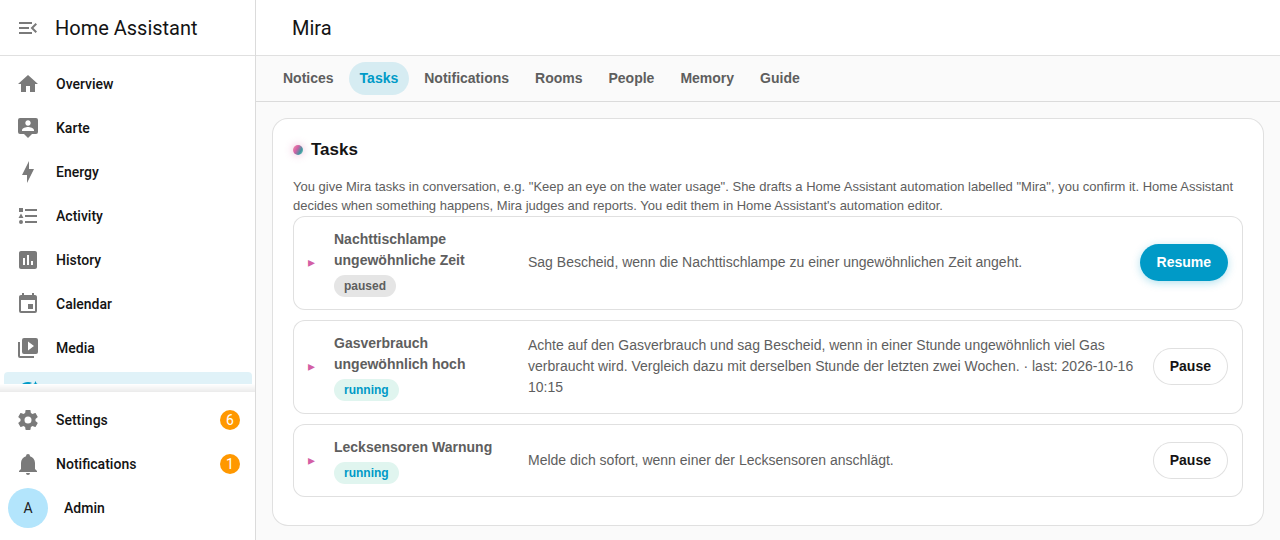
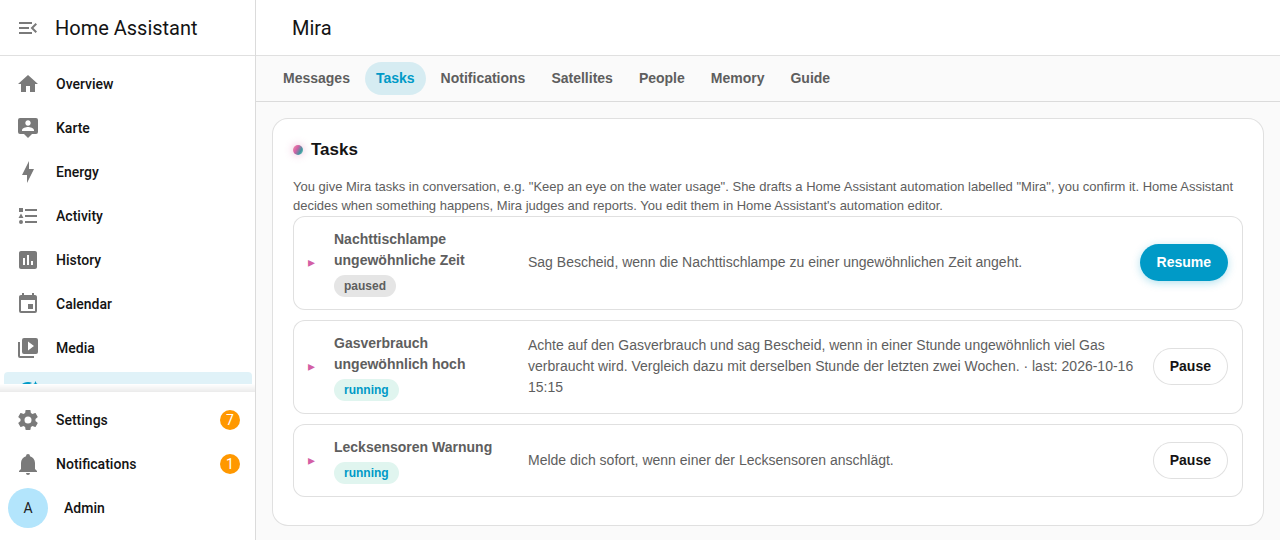
Doku auf Stand 0.6.9: Satelliten statt Räume, Kanäle der Person statt Telegram/Push, Anzeige statt Lampe, Ablauf der Zustellung ohne Raum-Modus, Telegram-Gespräch ohne Zeitgrenze; Screenshots neu (Nachrichten, Aufgaben, Benachrichtigung, Gerät, Integration, Personen-Einstellungen)

Changed region(s): [[0.2188, 0.1185, 0.6562, 0.1778]]

diff --git a/docs/guide/de.md b/docs/guide/de.md
@@ -85,7 +85,7 @@ Pro Satellit stellst du ein:
 
 Mehrere Nachrichten fasst Mira zu einer Ansage zusammen, das Wichtigste zuerst und mit Uhrzeit, wo sie hilft („heute Nacht um drei …“).
 
-**Nebenbei**: Wenn du ohnehin mit dem Satelliten sprichst, hängt Mira Wartendes an ihre Antwort an – „Das Licht ist an. Übrigens: Morgen wird der Wertstoff abgeholt.“ Danach gilt die Nachricht als gehört und die Lampe geht aus. Fragst du nach („Was genau?“), bekommst du die Details.
+**Nebenbei**: Wenn du ohnehin mit dem Satelliten sprichst, hängt Mira Wartendes an ihre Antwort an – „Das Licht ist an. Übrigens: Morgen wird der Wertstoff abgeholt.“ Danach gilt die Nachricht als gehört, und die Anzeige geht aus. Fragst du nach („Was genau?“), bekommst du die Details.
 
 **Wichtigkeit**:
 
@@ -101,7 +101,7 @@ Wenn Mira von sich aus spricht, leuchtet der LED-Ring des Raums ruhig, solange s
 
 **Ruhemodus**: Der Schalter „Ruhemodus“ in Home Assistant stellt alle Ansagen ab, bis du ihn wieder ausschaltest.
 
-**Vertrauliches und Persönliches**: Nachrichten können für eine Person bestimmt oder vertraulich sein. Vertrauliches liest Mira nur vor, wenn die Einstellung es erlaubt (z. B. nur wenn die Person allein zu Hause ist); sonst kommt es privat per Telegram oder als Push-Nachricht aufs Handy.
+**Vertrauliches und Persönliches**: Nachrichten können für eine Person bestimmt oder vertraulich sein. Vertrauliches liest Mira nur vor, wenn die Einstellung es erlaubt (z. B. nur wenn die Person allein zu Hause ist); sonst kommt es privat über die Kanäle der Person (Telegram, Companion-App).
 
 ![Nachrichten: wartende und zugestellte](img/meldungen-de.png)
 
@@ -148,7 +148,7 @@ Ist die Einrichtung mit einem stärkeren Sprachmodell verbunden, gibt Mira aufwe
 - „Stell einen Timer auf 10 Minuten.“ – „In einer halben Stunde erinnerst du mich an die Wäsche.“
 - „Welche Erinnerungen habe ich?“ – „Lösch die Erinnerung an die Wäsche.“
 
-Zur gewählten Zeit sagt Mira die Erinnerung in dem Raum an, in dem du sie gestellt hast – auch in der Ruhezeit, denn die Zeit hast du gewählt. Per Telegram oder in der HA-App gestellte Erinnerungen kommen privat zu dir, per Telegram oder als Push-Nachricht.
+Zur gewählten Zeit sagt Mira die Erinnerung in dem Raum an, in dem du sie gestellt hast – auch in der Ruhezeit, denn die Zeit hast du gewählt. Per Telegram oder in der HA-App gestellte Erinnerungen kommen privat über deine Kanäle.
 
 ## Nachrichten an andere
 
@@ -177,7 +177,7 @@ Mira steht in Home Assistant im Seitenmenü. Du bist dort schon angemeldet, sie 
 - **Nachrichten**: offene und zugestellte Nachrichten ansehen und quittieren.
 - **Aufgaben**: was Mira für dich im Blick behält; an/aus, Probelauf, Protokoll, löschen, „In Home Assistant bearbeiten“.
 - **Benachrichtigung**: Ruhezeit, Pausen, Eskalation, Vertrauliches, dringende Nachrichten.
-- **Räume** und **Personen**: zeigen, was du in der Integration eingerichtet hast (siehe unten).
+- **Satelliten** und **Personen**: alle aus Home Assistant, mit dem, was Mira zusätzlich braucht; als Admin stellst du es hier direkt ein (siehe unten).
 - **Gedächtnis**: das des Hauses und dein eigenes; bearbeiten und vergessen.
 - **Anleitung**: diese Seite.
 
@@ -189,7 +189,7 @@ Bevor Mira etwas löscht, fragt sie nach:
 
 ![Rückfrage vor dem Vergessen eines Fakts](img/dialog-vergessen-de.png)
 
-**Mira für sich allein**: Dieselbe Oberfläche gibt es auch direkt bei Mira unter `http://<mira>:8787/ui`, gedacht für den, der Mira betreibt, und für Installationen ohne die Integration. Sie macht ein paar Dinge anders: Sie kommt in Miras eigenen Farben, fragt beim ersten Aufruf nach dem Zugangs-Token, zeigt die Gedächtnisse aller Personen und lässt dort Räume und Personen bearbeiten, solange die Integration sie nicht verwaltet.
+**Mira für sich allein**: Dieselbe Oberfläche gibt es auch direkt bei Mira unter `http://<mira>:8787/ui`, gedacht für den, der Mira betreibt, und für Installationen ohne die Integration. Sie macht ein paar Dinge anders: Sie kommt in Miras eigenen Farben, fragt beim ersten Aufruf nach dem Zugangs-Token, zeigt die Gedächtnisse aller Personen und lässt dort Satelliten und Personen bearbeiten, solange die Integration sie nicht verwaltet.
 
 ## In Home Assistant
 
@@ -208,6 +208,9 @@ Was Mira darüber hinaus braucht, stellst du am einfachsten im Mira-Panel unter 
 
 - **Einstellungen für einen Satelliten**: Bewegungsmelder (auch mehrere, etwa Flur und Wohnzimmer), beim Hereinkommen ansagen, Anzeige (LED-Ring). Der Raum ist der Bereich des Satelliten.
 - **Einstellungen für eine Person**: **Kanäle** (notify-Ziele, z. B. der Telegram-Chat aus HAs Telegram-Integration und die Companion-App; persönliche Nachrichten gehen an den ersten, der klappt), **Nachrichten annehmen von** (allen, nur Personen, niemandem) und „Allein zu Hause sind die Satelliten ich“.
+
+![Einstellungen für Personen unter „Konfigurieren“: ein Abschnitt pro Person](img/ha-person-de.png)
+
 - **Nachfragen**: Hängst du in Home Assistant das Label **„Mira: nachfragen“** an eine Entität, etwa das Garagentor, schaltet Mira sie nur nach deinem „Ja“, und Aufgaben schalten sie nie. Schlösser und Alarmanlagen sind das ohnehin.
 
 Im Assist-Chat der HA-App und im Seitenmenü erkennt Mira dich an deinem HA-Benutzer, über die Person, mit der Home Assistant ihn verknüpft.
@@ -250,3 +253,4 @@ Neue oder geänderte Server gelten nach einem Neustart von Mira. `mira check` pr
 - Mira erfindet keine Werte: Fehlt ihr etwas, sagt sie es oder fragt nach.
 - Nach einer Websuche führt Mira keine kritischen Aktionen aus, bis du den Befehl noch einmal direkt gibst.
 - Bei Spracherkennungsfehlern hilft es, deutlich und in einem Satz zu sprechen.
+- Ein Gespräch per Telegram läuft weiter, solange du schreibst. Mira sieht davon die letzten Wechsel (etwa 30 bis 50) und alles zum Anliegen, an dem ihr gerade arbeitet; Älteres fällt heraus, was sie sich gemerkt hat, bleibt. `/neu` beginnt von vorn.

diff --git a/docs/guide/en.md b/docs/guide/en.md
@@ -85,7 +85,7 @@ Per satellite you set:
 
 Several messages become one announcement, the most important first and with times where they help ("tonight at three …").
 
-**By the way**: when you talk to the satellite anyway, Mira adds what is waiting to her answer – "The light is on. By the way: the recycling is collected tomorrow." After that the message counts as heard and the light goes off. If you ask ("What exactly?"), you get the details.
+**By the way**: when you talk to the satellite anyway, Mira adds what is waiting to her answer – "The light is on. By the way: the recycling is collected tomorrow." After that the message counts as heard and the indicator goes off. If you ask ("What exactly?"), you get the details.
 
 **Importance**:
 
@@ -101,7 +101,7 @@ When Mira speaks up on her own, the room's LED ring glows steadily while she spe
 
 **Quiet mode**: the "Quiet mode" switch in Home Assistant turns off all announcements until you turn it off again.
 
-**Confidential and personal**: messages can be meant for one person or be confidential. Mira reads confidential messages out only when the setting allows it (e.g. only when that person is alone at home); otherwise they go privately by Telegram or as a push notification to the phone.
+**Confidential and personal**: messages can be meant for one person or be confidential. Mira reads confidential messages out only when the setting allows it (e.g. only when that person is alone at home); otherwise they go privately over that person's channels (Telegram, companion app).
 
 ![Messages: waiting and delivered](img/meldungen-en.png)
 
@@ -148,7 +148,7 @@ If the setup is connected to a stronger language model, Mira hands elaborate que
 - "Set a timer for 10 minutes." – "Remind me about the laundry in half an hour."
 - "Which reminders do I have?" – "Delete the laundry reminder."
 
-At the time you chose, Mira speaks the reminder in the room where you asked for it – even during quiet hours, since you picked the time. Reminders set on Telegram or in the HA app come to you privately, by Telegram or as a push notification.
+At the time you chose, Mira speaks the reminder in the room where you asked for it – even during quiet hours, since you picked the time. Reminders set on Telegram or in the HA app come to you privately over your channels.
 
 ## Messages to others
 
@@ -177,7 +177,7 @@ Mira is in Home Assistant's sidebar. You are signed in there already, she looks 
 - **Messages**: see open and delivered messages and mark them done.
 - **Tasks**: what Mira keeps an eye on for you; on/off, dry run, log, delete, "Edit in Home Assistant".
 - **Notifications**: quiet hours, pauses, escalation, confidential and urgent messages.
-- **Rooms** and **People**: show what you set up in the integration (see below).
+- **Satellites** and **People**: all of them from Home Assistant, with what Mira needs on top; as an admin you set it right here (see below).
 - **Memory**: the house's and your own; edit and forget.
 - **Guide**: this page.
 
@@ -189,7 +189,7 @@ Before Mira deletes something, she asks:
 
 ![Asking before a fact is forgotten](img/dialog-vergessen-en.png)
 
-**Mira on her own**: the same interface is also at Mira herself, at `http://<mira>:8787/ui`, meant for whoever runs Mira and for setups without the integration. It does a few things differently: it comes in Mira's own colors, asks for the access token on the first visit, shows the memories of all persons, and lets you edit rooms and people there as long as the integration does not manage them.
+**Mira on her own**: the same interface is also at Mira herself, at `http://<mira>:8787/ui`, meant for whoever runs Mira and for setups without the integration. It does a few things differently: it comes in Mira's own colors, asks for the access token on the first visit, shows the memories of all persons, and lets you edit satellites and people there as long as the integration does not manage them.
 
 ## In Home Assistant
 
@@ -208,6 +208,9 @@ What Mira needs beyond that is easiest to set in Mira's panel under **Satellites
 
 - **Settings for a satellite**: motion sensors (several too, such as hallway and living room), announce on entry, indicator (LED ring). The room is the satellite's area.
 - **Settings for a person**: **channels** (notify targets, e.g. the Telegram chat of HA's Telegram integration and the companion app; personal messages go to the first that works), **take messages from** (everyone, persons only, nobody) and "Alone at home, the satellites are me".
+
+![Settings for people under "Configure": one section per person](img/ha-person-en.png)
+
 - **Confirm first**: put the label **"Mira: confirm first"** on an entity in Home Assistant, such as the garage door, and Mira switches it only after your "yes", and tasks never switch it. Locks and alarm panels are like that anyway.
 
 In the HA app's Assist chat and in the sidebar Mira recognises you by your HA user, through the person Home Assistant links it to.
@@ -250,3 +253,4 @@ New or changed servers take effect when Mira restarts. `mira check` tells whethe
 - Mira does not make up values: if something is missing, she says so or asks.
 - After a web search Mira performs no critical actions until you give the command again directly.
 - If speech recognition gets you wrong, speak clearly and in one sentence.
+- A Telegram conversation goes on as long as you keep writing. Mira sees its last exchanges (about 30 to 50) and everything about the matter you are working on; older parts drop out, what she remembered stays. `/new` starts over.

diff --git a/docs/system.md b/docs/system.md
@@ -27,7 +27,7 @@ bedeutet und *wie* es gesagt wird.
 flowchart LR
     subgraph Haus
         SAT[Sprach-Satellit<br/>z. B. Echo mit echolocal]
-        LAMP[Anzeige-Lampe<br/>LED-Ring]
+        LAMP[Anzeige<br/>LED-Ring, Bildschirm]
     end
     subgraph HA[Home Assistant]
         ASSIST[Assist-Pipeline<br/>Wakeword, STT, TTS]
@@ -84,7 +84,7 @@ flowchart LR
 | `internal/ha/structure` | Hausstruktur (Bereiche, Entitäten) als Prompt-Schicht 4 |
 | `internal/ha/assistprompt` | HAs eigener Assist-Prompt als Alternative für Schicht 4 |
 | `internal/tasks` | Aufgaben: Urteile (`assess`, `decide`), Datenansichten, Entwurf und Verwaltung der Automationen, Werkzeuge |
-| `internal/notifier` | Zustellung: wann, wo, wie eine Nachricht ankommt; Anzeige-Lampen; Erinnerungen |
+| `internal/notifier` | Zustellung: wann, wo, wie eine Nachricht ankommt; Anzeigen (LED-Ring, Bildschirm); Erinnerungen |
 | `internal/skills` | Skills im Agent-Skills-Format (`SKILL.md`), Zeitpläne, Kalender |
 | `internal/ical`, `internal/feeds` | Kalender (iCal) und Feeds (RSS/Atom) lesen |
 | `internal/store` | SQLite: Sitzungen, Verläufe, Nachrichten, Gedächtnis, Erinnerungen, Aufgaben-Vorschläge, Protokoll der Urteile |
@@ -250,14 +250,15 @@ flowchart TD
     Q[Nachricht wartet<br/>Wichtigkeit, Empfänger, vertraulich?] --> U{Wichtigkeit ≥ 3?}
     U -->|ja| NOW[Sofort: auf jedem Satelliten<br/>falls nicht vertraulich, und privat an alle]
     U -->|nein| QH{Ruhezeit oder Ruhemodus?}
-    QH -->|ja| WAIT[wartet; Anzeige-Lampe leuchtet trotzdem]
-    QH -->|nein| MODE{Modus des Raums}
-    MODE -->|ansagen| MOT[Bewegung im Raum → Ansage<br/>start_conversation, danach Zuhören]
-    MODE -->|anzeigen| IND[Anzeige-Lampe pulsiert<br/>„Hast du eine Benachrichtigung?“]
+    QH -->|ja| WAIT[wartet; Anzeige leuchtet trotzdem]
+    QH -->|nein| IND[Anzeige leuchtet<br/>LED-Ring pulsiert, Bildschirm blendet ein]
+    IND --> MODE{Satellit sagt beim<br/>Hereinkommen an?}
+    MODE -->|ja| MOT[Bewegung im Raum → Ansage<br/>start_conversation, danach Zuhören]
+    MODE -->|nein| ASK[Vorlesen auf Nachfrage<br/>oder als „Übrigens“]
     MOT --> HEARD[zugestellt]
-    IND --> ASK[Vorlesen auf Nachfrage<br/>oder als „Übrigens“] --> HEARD
+    ASK --> HEARD
     WAIT --> ESC{Wichtigkeit ≥ 2 und bis 9 Uhr<br/>nicht gehört?}
-    ESC -->|ja| PRIV[privat: Telegram oder Handy]
+    ESC -->|ja| PRIV[privat über die Kanäle der Person]
     HEARD --> FU{Antwort direkt nach der Ansage?}
     FU -->|ja| ACK[erledigt; „Was genau?“ bekommt die Details]
 ```
@@ -271,9 +272,12 @@ Weitere Regeln:
   Aufgabe) sagt Mira im Raum der Anfrage an. Sie wartet dafür, bis der
   Satellit wieder frei ist, und spielt keinen Gong, wenn die Ansage direkt
   auf eine Antwort folgt.
-- **Anzeige-Lampe während einer Ansage:** Sie leuchtet ruhig, solange der
-  Satellit spricht, und geht mit dem Ende des Textes aus. Danach zeigt sie
-  wieder, ob etwas wartet.
+- **Mehrere Nachrichten** fasst das Modell zu einer Ansage zusammen
+  (Wichtiges zuerst); klappt das nicht, gilt eine feste Form.
+- **Anzeige während einer Ansage:** Der LED-Ring leuchtet ruhig, solange der
+  Satellit spricht, und geht mit dem Ende des Textes aus. Danach zeigt er
+  wieder, ob etwas wartet. Satelliten mit Bildschirm (Echo Show mit TECHO5)
+  blenden wartende Nachrichten ein; Mira erkennt sie von selbst.
 - **Zustände einer Nachricht:** wartet, zugestellt, erledigt, abgelaufen. Die
   UI fasst zugestellt und erledigt zu einem Zustand zusammen.
 

diff --git a/README.md b/README.md
@@ -70,7 +70,7 @@ Requirements:
   started by Mira (stdio). See "More tools over MCP" in the guide
   ([de](docs/guide/de.md), [en](docs/guide/en.md)).
 
-Web UI: `http://<agent>:8787/ui` edits the notifier, and the rooms and
+Web UI: `http://<agent>:8787/ui` edits the notifier, and the satellites and
 persons unless the HA integration manages them (see below); it lists open messages and the memory. It asks for `MIRA_API_TOKEN`
 once. Changes are stored in the database on top of `mira.yaml` (the file is
 never rewritten; each section can be reset to it) and apply at once. The page
@@ -88,8 +88,9 @@ Reminders: "remind me tomorrow at seven" and timers are built in
 (`reminder_set`). At the time Mira speaks the reminder in the room it was
 asked in, or sends it privately.
 
-Messages are shown and spoken: per room, an indicator light (such as an
-Echo's LED ring) pulses while messages wait, and "Hast du eine
+Messages are shown and spoken: per room, an indicator (such as an
+Echo's LED ring) pulses while messages wait, satellites with a screen
+(Echo Show with TECHO5) show them, detected by themselves, and "Hast du eine
 Benachrichtigung?" reads them out (`messages_read`); with motion sensors and
 "announce on entry" (`notifier.morning_trigger.areas`) Mira says them by
 herself when someone comes in. Several messages are worded by the model as

diff --git a/docs/spec/nachrichten.md b/docs/spec/nachrichten.md
@@ -25,7 +25,7 @@ Vorerst nicht: „an alle einzeln“, also dieselbe Nachricht über den privaten
 
 Wie die Meldungen heute: Mira stellt im Haus zu.
 - Ansage, wenn jemand einen Raum betritt (Bewegungsmelder am Satelliten), sofern der Raum auf „ansagen“ steht;
-- sonst leuchtet die **Anzeige-Lampe**, bis jemand fragt, ob es etwas Neues gibt;
+- sonst leuchtet die **Anzeige**, bis jemand fragt, ob es etwas Neues gibt;
 - im Anschluss an eine Antwort („Licht ist an. Übrigens: …“);
 - Morgenansage, Ruhezeit, Eskalation, Dringendes sofort – alles wie gehabt.
 
@@ -47,7 +47,7 @@ Einstellungen eines Empfängers gibt es hier nicht; das Haus nimmt alles an.
 
 **Zustellung:**
 - privat: über die [Kanäle](kanaele.md) der Person (HA-notify-Ziele), wie heute bei persönlichen und vertraulichen Meldungen;
-- am Satelliten (Ansage oder Anzeige-Lampe), **wenn die Person dort erkannt ist**. Heute heißt erkannt nur: Regel „allein zu Hause“. **Was „erkannt am Satelliten“ künftig heißt, besprechen wir gesondert.**
+- am Satelliten (Ansage oder Anzeige), **wenn die Person dort erkannt ist**. Heute heißt erkannt nur: Regel „allein zu Hause“. **Was „erkannt am Satelliten“ künftig heißt, besprechen wir gesondert.**
 
 ## Wortlaut
 

diff --git a/docs/spec/ha-anbindung.md b/docs/spec/ha-anbindung.md
@@ -29,7 +29,7 @@ Fast alles, was heute ein „Raum“ ist, ist eine Eigenschaft des Satelliten:
 |---|---|
 | `presence` | **Liste** von Bewegungsmeldern; jeder davon löst „jemand kommt herein“ aus (z. B. Flur-PIR und Wohnzimmer-PIR für das Wohnzimmer-Echo) |
 | `morning` | **beim Hereinkommen ansagen**: Merkt einer der Bewegungsmelder jemanden, sagt Mira von selbst an, was wartet (nach der Ruhezeit mit „Guten Morgen“) |
-| `indicator` | die Anzeige-Lampe, z. B. der LED-Ring des Echo: leuchtet, solange etwas wartet, unabhängig von Bewegungsmeldern |
+| `indicator` | die Anzeige, z. B. der LED-Ring des Echo: leuchtet, solange etwas wartet, unabhängig von Bewegungsmeldern. Satelliten mit Bildschirm brauchen keine Einstellung, Mira erkennt sie von selbst |
 
 - Der **Bereich** ist der des Satelliten in HA (Entität, sonst ihr Gerät). Ein Satellit ohne Bereich kann nicht eingestellt werden.
 - Satelliten sind `assist_satellite.*`, für Lautsprecher ohne Assist auch `media_player.*` (mit `notifier.tts_entity`).

diff --git a/docs/spec/kanaele.md b/docs/spec/kanaele.md
@@ -15,7 +15,7 @@ Der Agent kennt nur dieses Modell: „eingehender Text von Kanal X, Gespräch Y,
 | Kanal | Richtung | Woher | Person |
 |---|---|---|---|
 | **notify** – jedes HA-notify-Ziel (Companion-App, Telegram-Chat, Signal, Slack, Threema, …) | nur senden | HAs `notify`, Mira baut nichts | die Person, der das Ziel zugeordnet ist |
-| **Satellit** | Gespräch (Sprache); Zustellung als Ansage oder Anzeige-Lampe | HAs Assist-Pipeline und `assist_satellite` | anonym; erkannt nur nach der Regel „allein zu Hause“ (weiteres offen) |
+| **Satellit** | Gespräch (Sprache); Zustellung als Ansage oder Anzeige | HAs Assist-Pipeline und `assist_satellite` | anonym; erkannt nur nach der Regel „allein zu Hause“ (weiteres offen) |
 | **HA-Chat** (Assist in der App, Mira im Seitenmenü) | Gespräch | HAs Gesprächsagent | über den angemeldeten HA-Benutzer |
 | **Telegram** | Gespräch und senden | **Adapter auf HAs Integration `telegram_bot`** | über den Chat, der der Person zugeordnet ist |
 

diff --git a/docs/spec/benutzer.md b/docs/spec/benutzer.md
@@ -22,7 +22,7 @@ Es gibt keine getrennten Agenten. Das Hauswissen (Struktur, Geräte) bleibt eine
 |---|---|---|
 | Gedächtnis (Fakten, Profil) | Haushaltsfakten | eigene Fakten, eigenes Profil |
 | Aufgaben | „Achte auf den Wasserverbrauch“ | „Sag **mir** Bescheid, wenn …“ |
-| Meldungen | Ansage im Raum, Anzeige-Lampe, „Übrigens“ | privat (Telegram, Handy-Push), am Satelliten nur nach der Regel „allein zu Hause“ |
+| Meldungen | Ansage im Raum, Anzeige, „Übrigens“ | privat über die Kanäle der Person, am Satelliten nur nach der Regel „allein zu Hause“ |
 | Erinnerungen | im Raum | auf den privaten Kanal |
 | spricht von sich aus im Haus | ja | nur nach der Regel „allein zu Hause“ |
 

diff --git a/docs/spec/aufgaben.md b/docs/spec/aufgaben.md
@@ -23,7 +23,7 @@ Label **„Mira“**.
 - **Mira** liefert, was HA nicht kann, als **Aktionen** für Automationen:
   - Urteilen mit dem Modell;
   - Daten aus HA verdichten, damit das Urteil billig bleibt;
-  - Zustellen mit Mira-Semantik: Ansage, Anzeige-Lampe, „Übrigens“, Telegram, Ruhezeit, Eskalation.
+  - Zustellen mit Mira-Semantik: Ansage, Anzeige, „Übrigens“, Kanäle der Person, Ruhezeit, Eskalation.
 - Mira hält nur einen **Verweis** (Automations-ID) und ihr Protokoll.
 
 Watcher und die Regel-Engine der Aufträge entfallen. Die Testdaten werden ohne Migration gelöscht.
